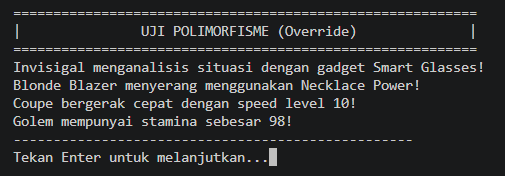
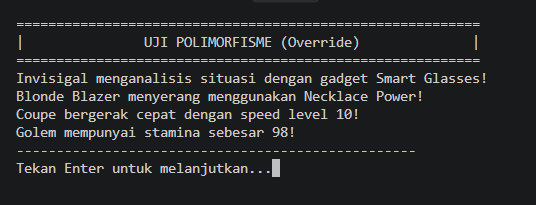
Perbaikan typo dan coba LSP mungkin

Changed region(s): [[0.0, 0.3409, 0.9802, 0.9375], [0.0297, 0.0568, 0.9505, 0.3125], [0.9208, 0.142, 0.9505, 0.2273]]

diff --git a/Posttest/Posttest3/tempCodeRunnerFile.py b/Posttest/Posttest3/tempCodeRunnerFile.py
@@ -1,0 +1,225 @@
+import os
+from posttest3_2509106066_AryasatyaRakhaPhanyputa import (
+    Hero, HeroCombat, HeroIntelligence, HeroMobility, HeroVigor, Misi, Dispatcher, Agency,
+    SuccessRateEvaluator, Competingcalls, Hackcalls, proses_panggilan,)
+
+def lanjut():
+    input("Tekan Enter untuk melanjutkan...")
+    os.system("cls" if os.name == "nt" else "clear")
+
+if __name__ == "__main__":
+    os.system("cls" if os.name == "nt" else "clear")
+    print("==========================================================")
+    print("|                     DISPATCH HERO                      |")
+    print("==========================================================")
+
+    lanjut()
+    print("==========================================================")
+    print("|                       DATA HERO                        |")
+    print("==========================================================")
+
+    hero1 = HeroIntelligence("Invisigal", 85, 90, "Smart Glasses")
+    hero2 = HeroCombat("Blonde Blazer", 90, 95, "Necklace Power")
+    hero3 = HeroMobility("Coupe", 75, 85, 10)
+    hero4 = HeroVigor("Golem", 90, 60, 98)
+
+    print("Data Hero:")
+    hero1.tampilkan_stats()
+    hero2.tampilkan_stats()
+    hero3.tampilkan_stats()
+    hero4.tampilkan_stats()
+    print("-" * 50)
+    print("Total Hero:", Hero.total_hero)
+    print("Nama Agency:", Hero.nama_agency)
+    print("Maksimal Tim:", Hero.maksimal_tim_dispatch)
+
+    print("-" * 50)
+    print("Uji Static Method:")
+    print("Tipe Intelligence:", Hero.validasi_tipehero("Intelligence"))
+    print("Tipe Cybernetic:", Hero.validasi_tipehero("Cybernetic"))
+
+    print("-" * 50)
+    print("Uji Class Method:")
+    print("Maksimal Tim sebelum:", Hero.maksimal_tim_dispatch)
+    Hero.ubah_maksimal_tim(4)
+    print("Maksimal Tim sesudah:", Hero.maksimal_tim_dispatch)
+    print("-" * 50)
+
+    lanjut()
+    print("==========================================================")
+    print("|                UJI ABSTRACT CLASS (ABC)                |")
+    print("==========================================================")
+    try:
+        Bunny = Hero("Bunny", 1, 50)
+    except TypeError as e:
+        print("[Bukti ABSTRAKSI] Tidak bisa instansiasi Hero:", e)
+    print("-" * 50)
+
+    lanjut()
+    print("==========================================================")
+    print("|               UJI POLIMORFISME (Override)              |")
+    print("==========================================================")
+    for hero in [hero1, hero2, hero3, hero4]:   # satu loop, perilaku berbeda
+        hero.aksi_khusus()
+    print("-" * 50)
+
+    lanjut()
+    print("==========================================================")
+    print("|                     UJI DUCK TYPING                    |")
+    print("==========================================================")
+    proses_panggilan(Competingcalls("Selamatkan bank", "Selamatkan sekolah. Jika tidak memilih maka opsi tersebut akan menghilang!"))
+    proses_panggilan(Hackcalls("sistem keamanan gedung"))
+    print("-" * 50)   
+
+    lanjut()
+    print("==========================================================")
+    print("|              UJI OPERATOR OVERLOADING                  |")
+    print("==========================================================")
+    # uji __lt__
+    print(f"{hero1.nama} ({hero1.power_level}) < {hero2.nama} ({hero2.power_level}) ? {hero1 < hero2}") 
+    print(f"{hero2.nama} ({hero2.power_level}) < {hero3.nama} ({hero3.power_level}) ? {hero2 < hero3}")
+    print("Hero terkuat (max):", max(hero1, hero2, hero3).nama)
+    print("-" * 50)
+
+    lanjut()
+    print("==========================================================")
+    print("|                         DATA MISI                      |")
+    print("==========================================================")
+    inc1 = Misi("INC-01", "Penyelidikan Villain", "Downtown", ["Intelligence", "Mobility"], 150)
+    inc2 = Misi("INC-02", "Kebakaran Gedung", "Sector 7", ["Combat"], 80)
+
+    print("Misi 1:")
+    inc1.info_misi()
+    print("-" * 50)
+    print("Misi 2:")
+    inc2.info_misi()
+    print(f"Batas waktu respon: {Misi.batas_waktu_respon_detik} detik")
+    print("-" * 50)
+
+    lanjut()
+    print("==========================================================")
+    print("|                    DATA DISPATCHER                     |")
+    print("==========================================================")
+    operator1 = Dispatcher("Player 1", "PASS-1234")
+    operator2 = Dispatcher("Player 2", "PASS-5678", penilai=SuccessRateEvaluator(90))  # contoh DIP (Dependency Inversion Principle)
+
+    print("Info Operator 1:")
+    operator1.info_operator()
+    print("-" * 50)
+    print("Info Operator 2:")
+    operator2.info_operator()
+
+    print("-" * 50)
+    print("Verifikasi Kode Akses:")
+    print(f"Kode PASS-1234: {operator1.verif_access('PASS-1234')}")
+    print(f"Kode SALAH: {operator1.verif_access('SALAH')}")
+    print("-" * 50)
+
+    lanjut()
+    print("==========================================================")
+    print("|                      UJI ASOSIASI                      |")
+    print("==========================================================")
+    operator1.dispatch_tim_hero([hero1, hero3], inc1)
+    print("-" * 50)
+    print("Status setelah dispatch:")
+    hero1.tampilkan_stats()
+    hero3.tampilkan_stats()
+    print(f"Total dispatch: {operator1.total_dispatch}")
+    print("-" * 50)
+
+    lanjut()
+    print("==========================================================")
+    print("|              UJI DIP (Dependency Injection)            |")
+    print("==========================================================")
+    print("Misi INC-01 butuh Intelligence + Mobility. hero2 bertipe Combat (SR 95%).")
+    print("-" * 50)
+    print("Operator 1 (TypeEvaluator, default):")
+    operator1.dispatch_tim_hero([hero2], inc1)
+    hero2.beristirahat()
+    print("-" * 50)
+    print("Operator 2 (SuccessRateEvaluator, batas 90%):")
+    operator2.dispatch_tim_hero([hero2], inc1)
+
+    lanjut()
+    print("==========================================================")
+    print("|                      UJI KOMPOSISI                     |")
+    print("==========================================================")
+    operator1.tampilkan_log() 
+    print("-" * 50)
+
+    lanjut()
+    print("==========================================================")
+    print("|                     UJI AGREGASI                       |")
+    print("==========================================================")
+    agency = Agency("Phoenix Agency")
+    agency.tambah_hero(hero1)
+    agency.tambah_hero(hero2)
+    agency.tambah_hero(hero3)
+    agency.tambah_hero(hero4)
+    agency.tambah_dispatcher(operator1)
+    agency.tambah_dispatcher(operator2)
+
+    print("Nama Agency:", agency.nama)
+    print("Jumlah Hero:", len(agency.daftar_hero))
+    print("Jumlah Dispatcher:", len(agency.daftar_dispatcher))
+    print("-" * 50)
+
+    lanjut()
+    print("==========================================================")
+    print("|                      STATUS HERO                       |")
+    print("==========================================================")
+    print("Sebelum pemulihan(resting):")
+    hero1.tampilkan_stats()
+    print("-" * 50)
+    print("Hero sedang Resting, sekarang dipulihkan ke Standby...")
+    hero1.beristirahat()
+    print("-" * 50)
+    print("Setelah pemulihan:")
+    hero1.tampilkan_stats()
+    print("-" * 50)
+
+    lanjut()
+    print("==========================================================")
+    print("|                Uji Data Setter Valid                   |")
+    print("==========================================================")
+    print(f"Success rate awal {hero2.nama} : {hero2.persentase_sukses}")
+    hero2.persentase_sukses = 98
+    print(f"Success rate baru {hero2.nama} : {hero2.persentase_sukses}")
+    print("-" * 50)
+    print(f"Reward awal {inc2.nama_kejadian} : {inc2.reputasi_reward}")
+    inc2.reputasi_reward = 120
+    print(f"Reward baru {inc2.nama_kejadian} : {inc2.reputasi_reward}")
+
+    lanjut()
+    print("==========================================================")
+    print("|              Uji Data Setter Tidak Valid               |")
+    print("==========================================================")
+    try:
+        print("\n[Uji 1] Persentase sukses = 150")
+        hero2.persentase_sukses = 150
+    except ValueError as e:
+        print("[ERROR]", e)
+
+    try:
+        print("\n[Uji 2] Persentase sukses = 'Sangat Tinggi'")
+        hero2.persentase_sukses = "Sangat Tinggi"
+    except ValueError as e:
+        print("[ERROR]", e)
+
+    try:
+        print("\n[Uji 3] Total dispatch = -5")
+        operator1.total_dispatch = -5
+    except ValueError as e:
+        print("[ERROR]", e)
+
+    try:
+        print("\n[Uji 4] Reward = 0")
+        inc2.reputasi_reward = 0
+    except ValueError as e:
+        print("[ERROR]", e)
+    print("-" * 50)
+
+    lanjut()
+    print("==========================================================")
+    print("|                   PROGRAM SELESAI                      |")
+    print("==========================================================")

diff --git a/Posttest/Posttest3/main.py b/Posttest/Posttest3/main.py
@@ -59,9 +59,8 @@ if __name__ == "__main__":
     print("==========================================================")
     print("|               UJI POLIMORFISME (Override)              |")
     print("==========================================================")
-    for hero in [hero1, hero2, hero3]:   # satu loop, perilaku berbeda
+    for hero in [hero1, hero2, hero3, hero4]:   # satu loop, perilaku berbeda
         hero.aksi_khusus()
-    hero4.aksi_khusus()
     print("-" * 50)
 
     lanjut()

diff --git a/Posttest/Posttest3/posttest3_2509106066_AryasatyaRakhaPhanyputa.py b/Posttest/Posttest3/posttest3_2509106066_AryasatyaRakhaPhanyputa.py
@@ -60,7 +60,7 @@ class Hero(ABC):
             cls.maksimal_tim_dispatch = jumlah 
             print(f"[Berhasil] Maksimal tim dispatch diubah menjadi {jumlah} hero.") 
         else: 
-            print("Gagal Maksimal tim harus lebih dari 0!.") 
+            print("[Gagal!] Maksimal tim harus lebih dari 0!.") 
  
     @staticmethod 
     def validasi_tipehero(tipe): 

diff --git a/Posttest/Posttest3/README.md b/Posttest/Posttest3/README.md
@@ -557,10 +557,10 @@ Polimorfisme berarti satu interface dengan banyak implementasi: kode yang sama d
 
 ### 1. Polimorfisme via pewarisan (method overriding)
 
-Method `aksi_khusus()` dan `tampilkan_stats()` di-override oleh `HeroCombat`, `HeroIntelligence`, dan `HeroMobility` dengan perilaku berbeda. Pemanggilannya lewat satu loop yang berisi objek dari subclass berbeda:
+Method `aksi_khusus()` dan `tampilkan_stats()` di-override oleh `HeroCombat`, `HeroIntelligence`, `HeroMobility`, dan `HeroVigor` dengan perilaku berbeda. Pemanggilannya lewat satu loop yang berisi objek dari subclass berbeda:
 
 ```python
-for hero in [hero1, hero2, hero3]:
+for hero in [hero1, hero2, hero3, hero4]:
     hero.aksi_khusus()
 ```
 
@@ -570,15 +570,6 @@ Output:
 Invisigal menganalisis situasi dengan gadget Smart Glasses!
 Blonde Blazer menyerang menggunakan Necklace Power!
 Coupe bergerak cepat dengan speed level 10!
-```
-
-`hero4` (`HeroVigor`) dipanggil dengan cara yang sama dan ikut menunjukkan polimorfisme:
-
-```python
-hero4.aksi_khusus()
-```
-
-```text
 Golem mempunyai stamina sebesar 98!
 ```
 
@@ -621,18 +612,9 @@ print("Hero terkuat (max):", max(hero1, hero2, hero3).nama)
 Output:
 
 ```text
-__lt__ : Invisigal < Blonde Blazer ? True
-Hero terkuat (max): Blonde Blazer
-```
-
-Perbandingan lain di `main.py` memakai `__lt__` pada hero dari subclass berbeda:
-
-```python
-print(f"{hero2.nama} ({hero2.power_level}) < {hero3.nama} ({hero3.power_level}) ? {hero2 < hero3}")
-```
-
-```text
+Invisigal (85) < Blonde Blazer (90) ? True
 Blonde Blazer (90) < Coupe (75) ? False
+Hero terkuat (max): Blonde Blazer
 ```
 
 Contoh `__str__` pada log dispatch:
@@ -758,9 +740,8 @@ except TypeError as e:
 Setiap subclass memanggil `aksi_khusus()` lewat satu loop, tetapi output yang ditampilkan berbeda.
 
 ```python
-for hero in [hero1, hero2, hero3]:
+for hero in [hero1, hero2, hero3, hero4]:
     hero.aksi_khusus()
-hero4.aksi_khusus()
 ```
 
 ### 5. Pengujian Duck Typing
@@ -773,7 +754,8 @@ proses_panggilan(Hackcalls("sistem keamanan gedung"))
 ### 6. Pengujian Operator Overloading
 
 ```python
-print(f"__lt__ : {hero1.nama} < {hero2.nama} ? {hero1 < hero2}")
+print(f"{hero1.nama} ({hero1.power_level}) < {hero2.nama} ({hero2.power_level}) ? {hero1 < hero2}")
+print(f"{hero2.nama} ({hero2.power_level}) < {hero3.nama} ({hero3.power_level}) ? {hero2 < hero3}")
 print("Hero terkuat (max):", max(hero1, hero2, hero3).nama)
 operator1.tampilkan_log()   # memakai __str__ pada DispatchLog
 ```
